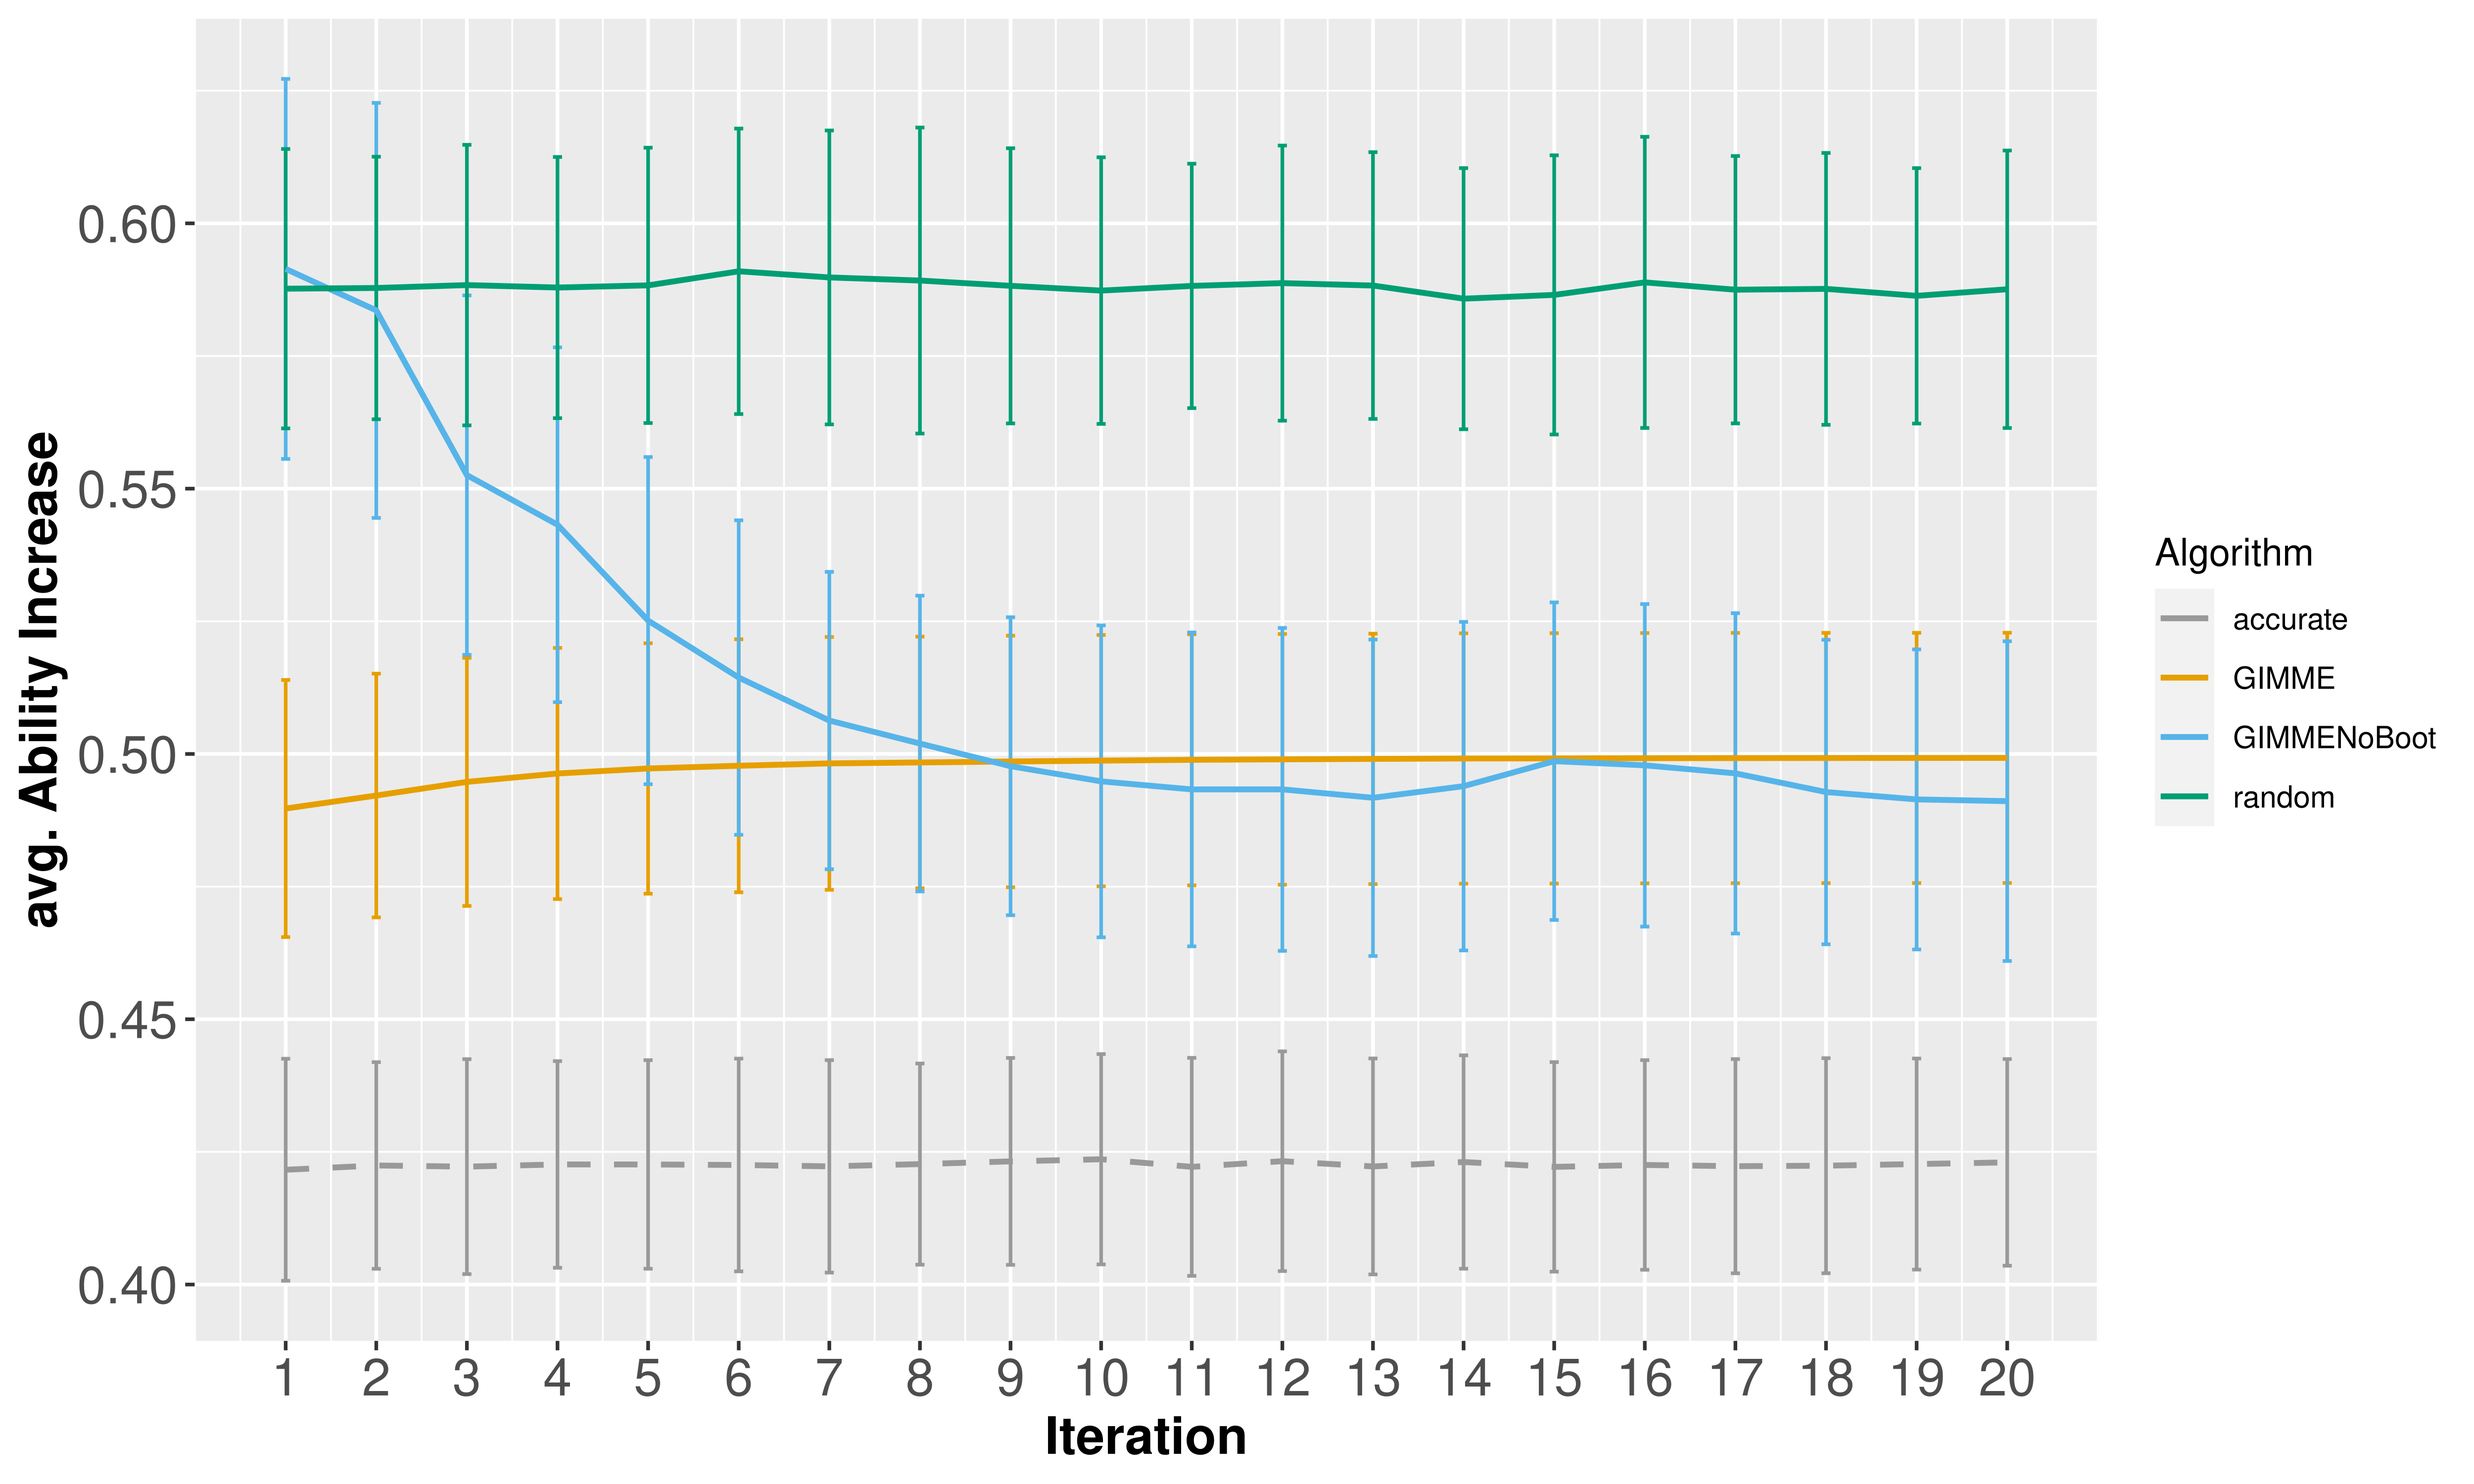
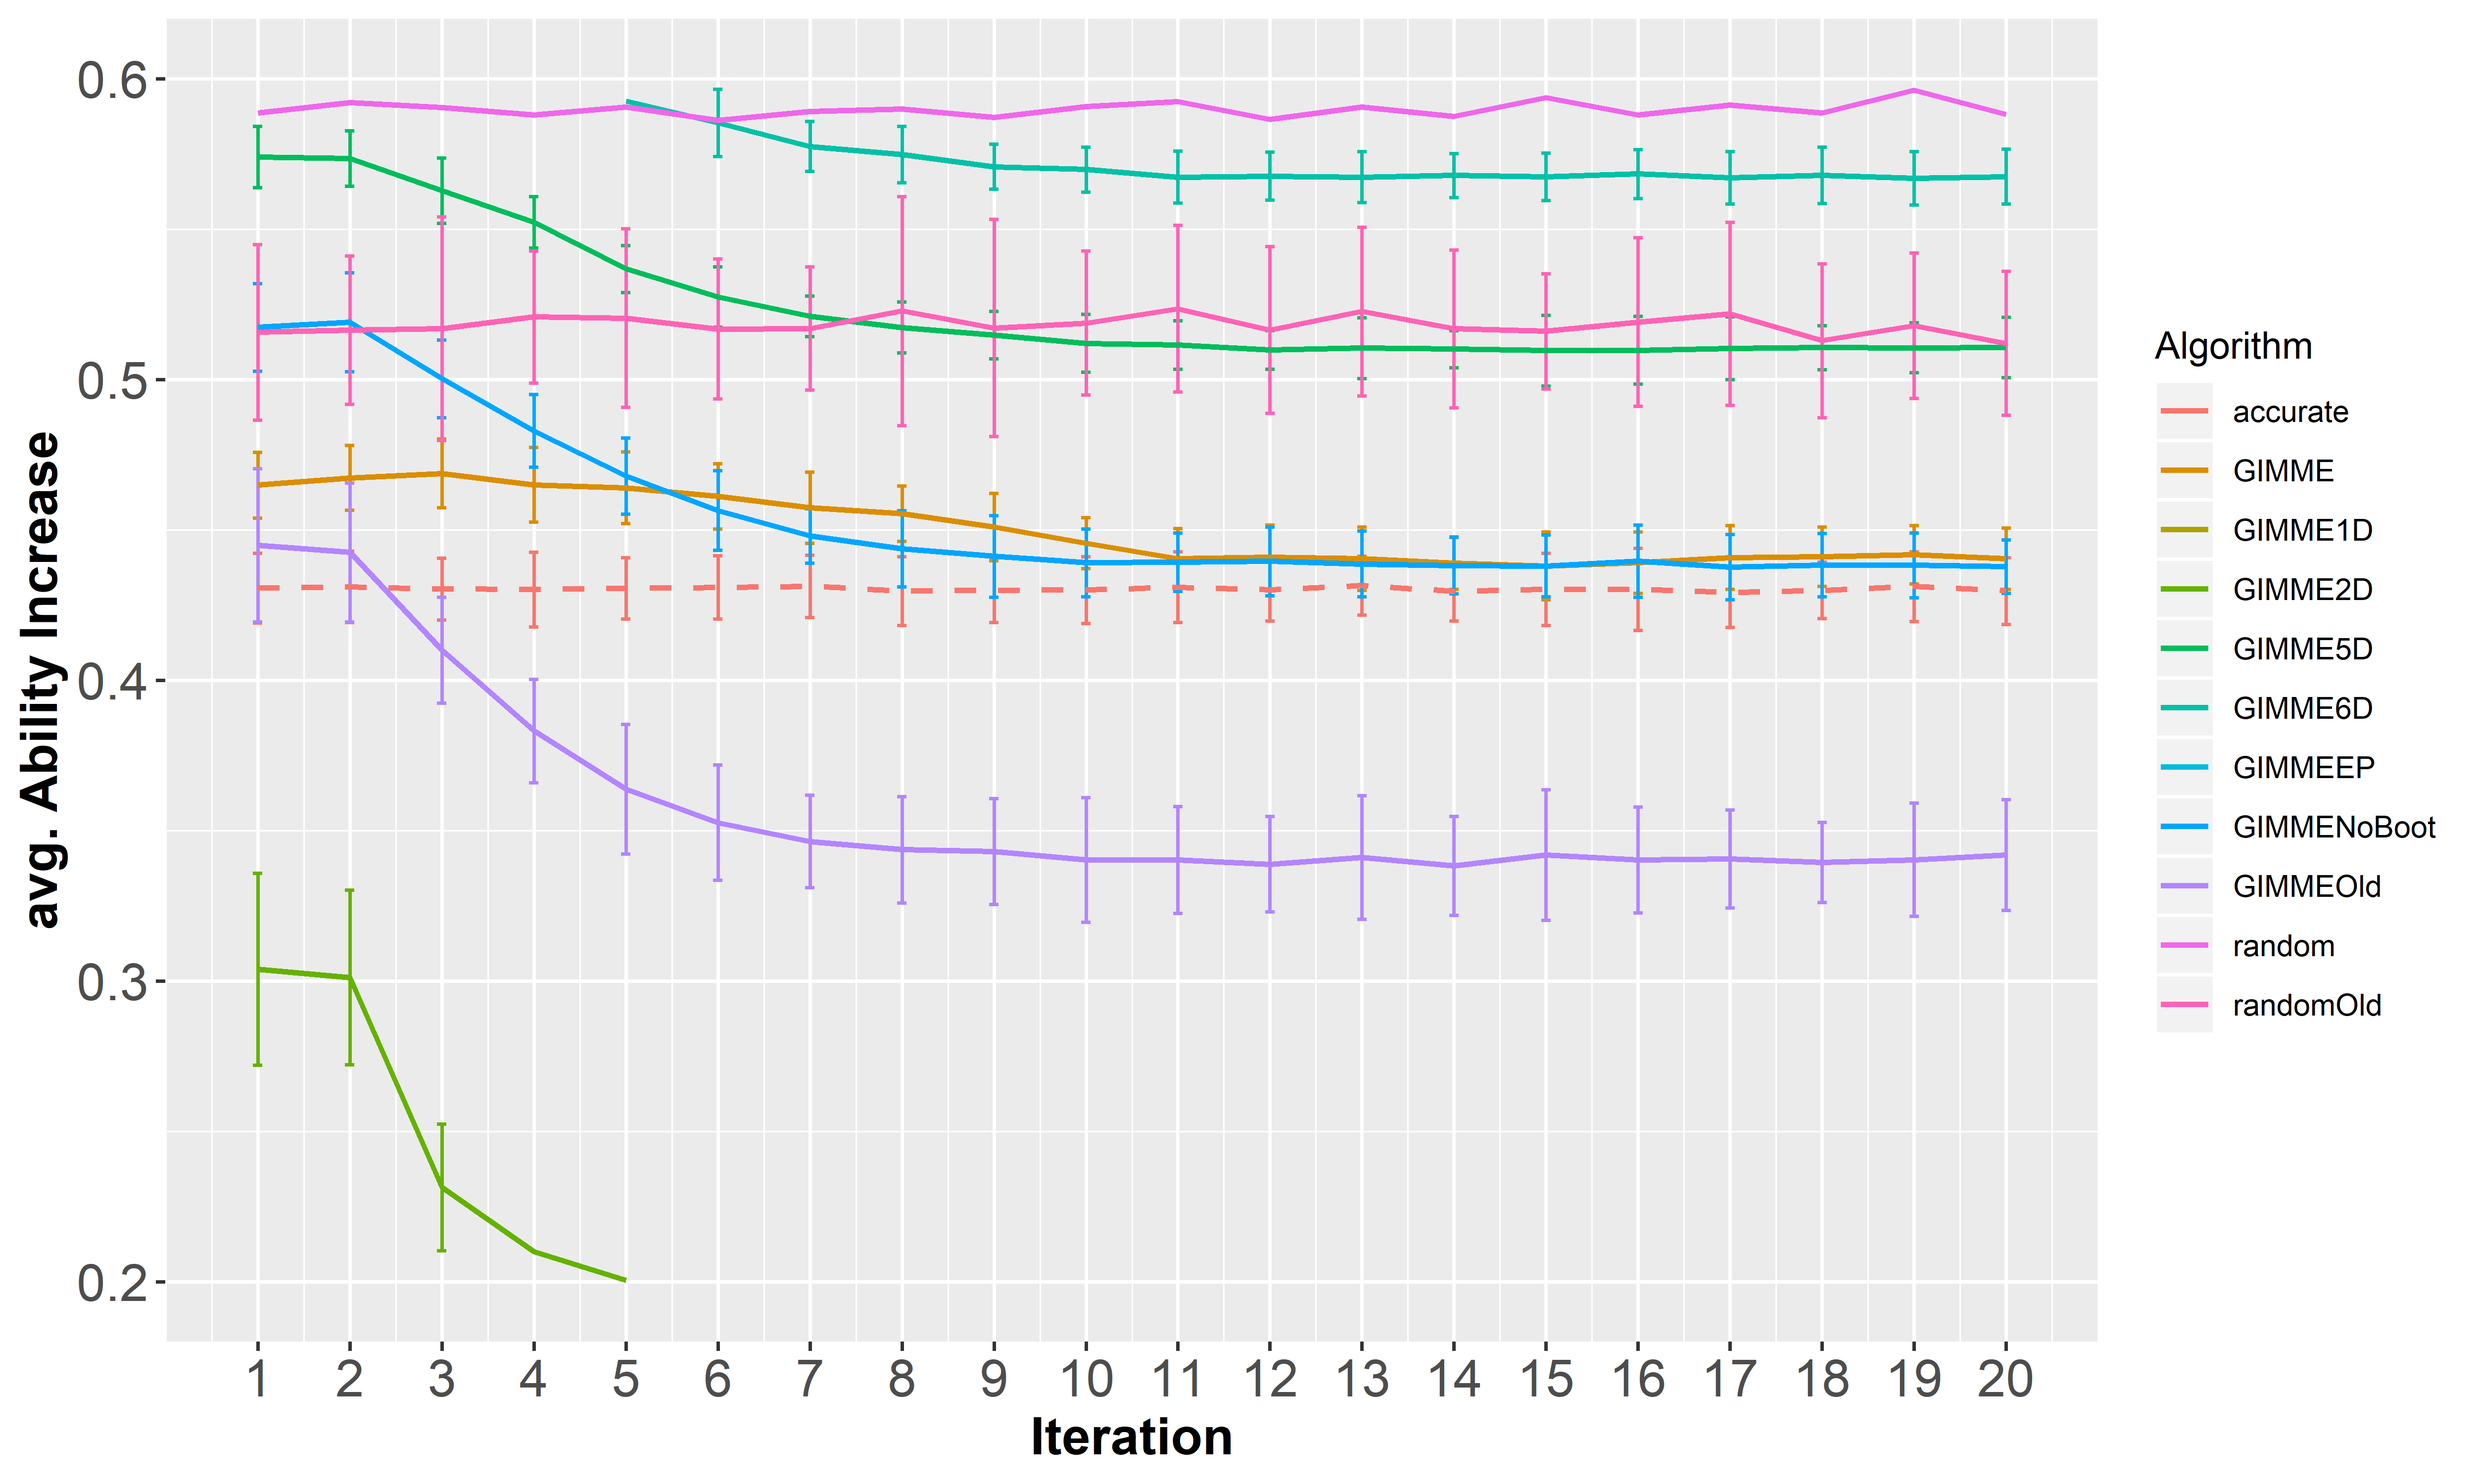
Added overall sims pending changes

diff --git a/examples/simulations.py b/examples/simulations.py
@@ -22,7 +22,7 @@ from LogManager import *
 random.seed(time.perf_counter())
 simsID = seed = random.randrange(sys.maxsize)
 
-numRuns = 20
+numRuns = 2
 maxNumTrainingIterations = 20
 numRealIterations = 20
 
@@ -474,13 +474,13 @@ adaptationGIMME6D.init(
 
 # ----------------------- [Execute Algorithms] ----------------------------
 
-# adaptationGIMME.name = "GIMME"
-# executeSimulations(maxNumTrainingIterations, 0, numRealIterations, maxNumTrainingIterations, playerBridge, 
-# 	taskBridge, adaptationGIMME, 4)
+adaptationGIMME.name = "GIMME"
+executeSimulations(maxNumTrainingIterations, 0, numRealIterations, maxNumTrainingIterations, playerBridge, 
+	taskBridge, adaptationGIMME, 4)
 
-# adaptationGIMME.name = "GIMMENoBoot"
-# executeSimulations(0, 0, numRealIterations, maxNumTrainingIterations, playerBridge, 
-# 	taskBridge, adaptationGIMME, 4)
+adaptationGIMME.name = "GIMMENoBoot"
+executeSimulations(0, 0, numRealIterations, maxNumTrainingIterations, playerBridge, 
+	taskBridge, adaptationGIMME, 4)
 
 
 # # adaptationGIMMESA.name = "GIMME_SA"
@@ -492,11 +492,11 @@ adaptationGIMME6D.init(
 # # 	taskBridge, adaptationGIMMESA, 4)
 
 
-# executeSimulations(0, 0, numRealIterations, maxNumTrainingIterations, playerBridge, 
-# 	taskBridge, adaptationAccurate, 4)
+executeSimulations(0, 0, numRealIterations, maxNumTrainingIterations, playerBridge, 
+	taskBridge, adaptationAccurate, 4)
 
-# executeSimulations(0, 0, numRealIterations, maxNumTrainingIterations, playerBridge, 
-# 	taskBridge, adaptationRandom, 4)
+executeSimulations(0, 0, numRealIterations, maxNumTrainingIterations, playerBridge, 
+	taskBridge, adaptationRandom, 4)
 
 
 

diff --git a/GIMMECore/AlgDefStructs/GridTrimAlg.py b/GIMMECore/AlgDefStructs/GridTrimAlg.py
@@ -40,8 +40,6 @@ class QualitySortGridTrimAlg(GridTrimAlg):
 		self.qualityWeights = PlayerCharacteristics(ability = 0.5, engagement = 0.5) if qualityWeights==None else qualityWeights
 		self.accStateResidue = False if accStateResidue == None else accStateResidue
 
-		self.ageTrimmer = AgeSortGridTrimAlg(maxNumModelElements)
-
 	def considerStateResidue(self, accStateResidue):
 		self.accStateResidue = accStateResidue
 
@@ -63,13 +61,16 @@ class QualitySortGridTrimAlg(GridTrimAlg):
 			if(modelInc.quality == -1):
 				modelInc.quality = self.calcQuality(modelInc)
 
-		# print([elem.quality for elem in pastModelIncs])	
+		# if(self.accStateResidue):
+		# 	self.accStateResidue = False
+		# 	return pastModelIncs[-3:]
 
-		if(len(pastModelIncs)< self.maxNumModelElements):
+
+		if(len(pastModelIncs) < self.maxNumModelElements):
 			return pastModelIncs
 
 		pastModelIncs = sorted(pastModelIncs, key=self.qSort)
-		return pastModelIncs[-(self.maxNumModelElements - 1):]
+		return pastModelIncs[-self.maxNumModelElements:]
 
 class QualitySoftMaxGridTrimAlg(GridTrimAlg):
 

diff --git a/GIMMECore/PlayerStructs.py b/GIMMECore/PlayerStructs.py
@@ -96,22 +96,20 @@ class PlayerStateGrid(object):
 
 		if(currCellInd==1):
 			breakpoint()
-		# print(playerState.profile.dimensions)
 
 		currCell = self.cells[currCellInd]
 		
 		self.serializedCells = list(set(self.serializedCells) - set(currCell))
 		self.numCellStates = self.numCellStates - len(currCell)
 		
-
 		currCell.append(playerState)
 		currCell = self.gridTrimAlg.trimmedList(currCell)
 
 		self.serializedCells.extend(currCell)
 		self.numCellStates = self.numCellStates + len(currCell)
 		
-
-		# print(len(currCell))
+		self.cells[currCellInd] = currCell
+		# print([elem.quality for elem in currCell])
 
 	def getAllStates(self):
 		# serialize multi into single dimensional array
